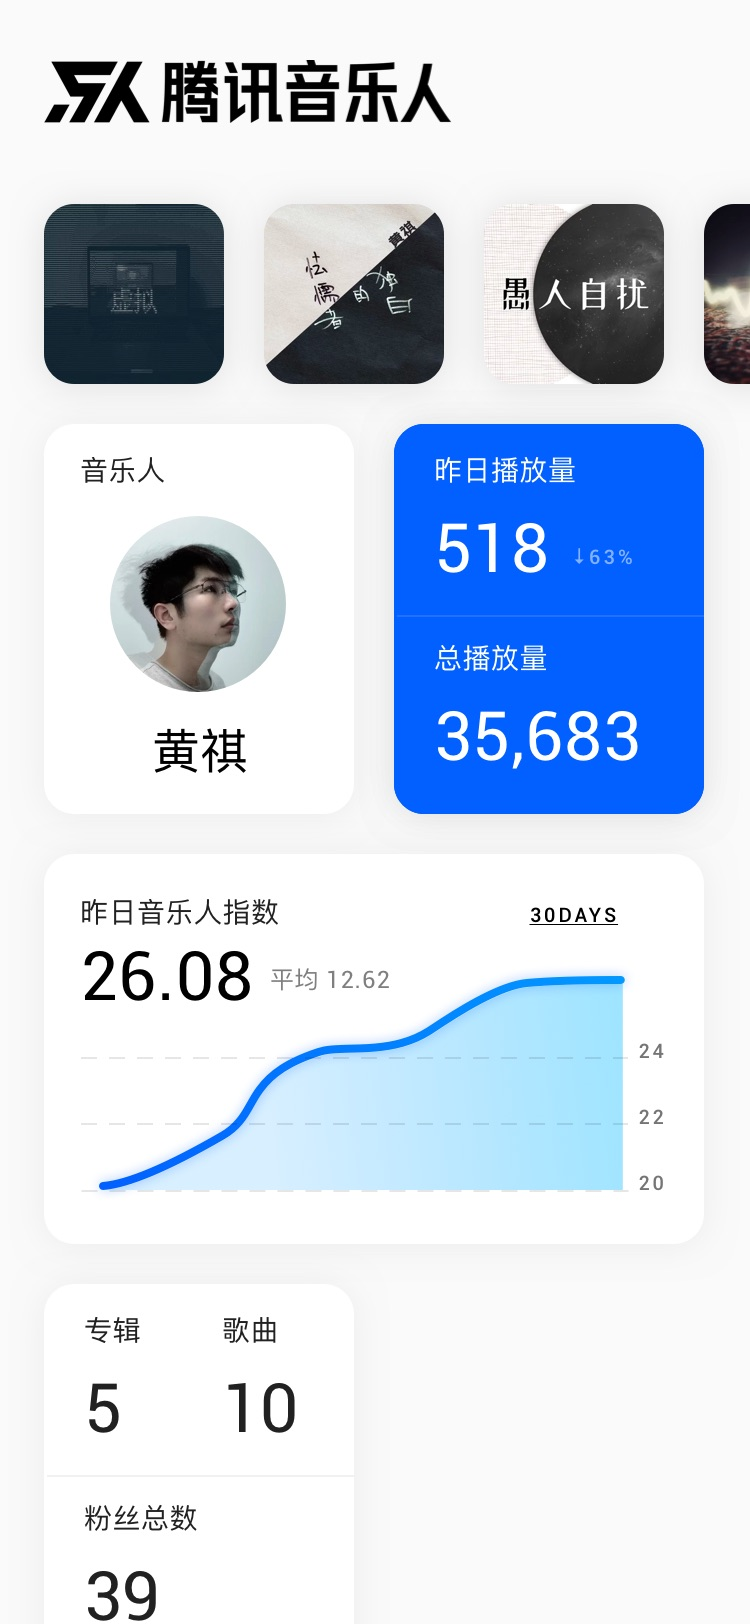
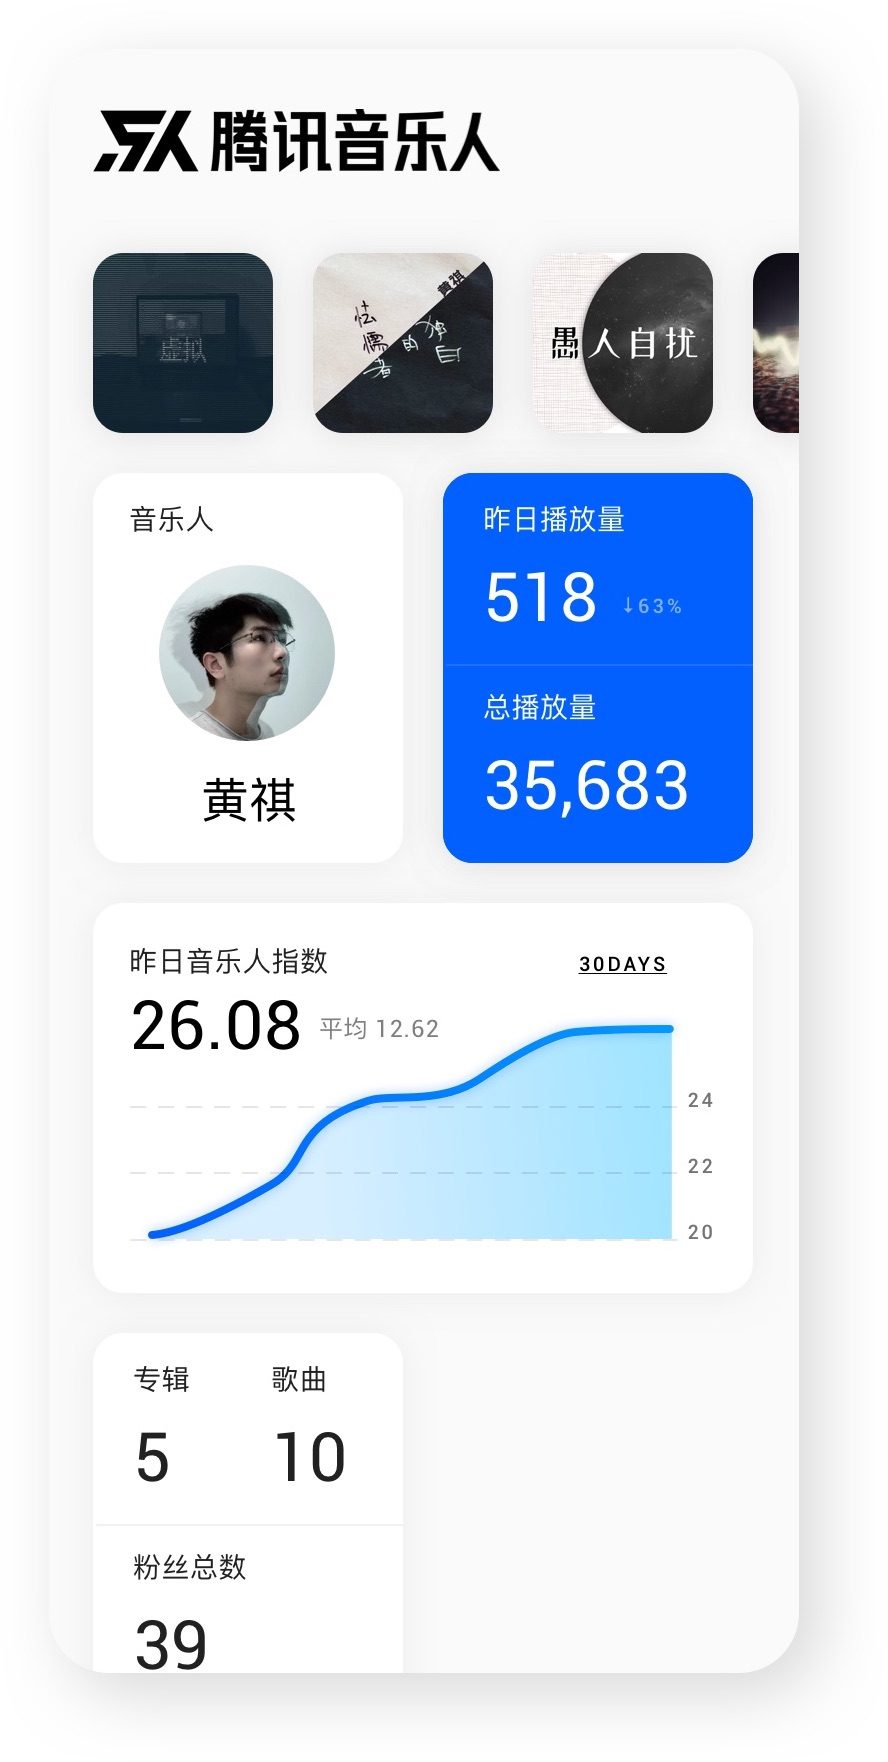
update readme

diff --git a/README.md b/README.md
@@ -3,7 +3,7 @@
 > An unofficial app for tencent musician using Flutter | 用Flutter实现的腾讯音乐人后台App
 
 <p align="center">
-<img src="./HomePage.jpg" width="375" style="border-radius: 15px" />
+<img src="./HomePage.jpg" width="300" style="border-radius: 15px" />
 </p>
 
 ## Getting Started
